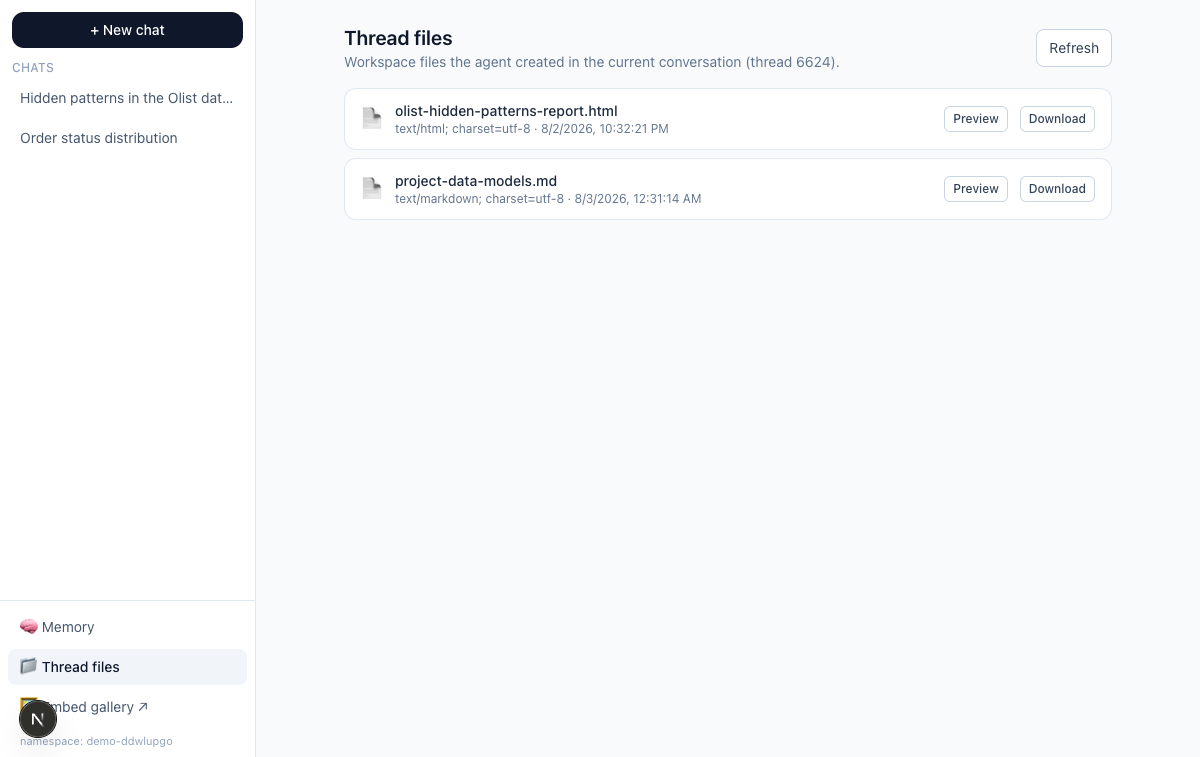
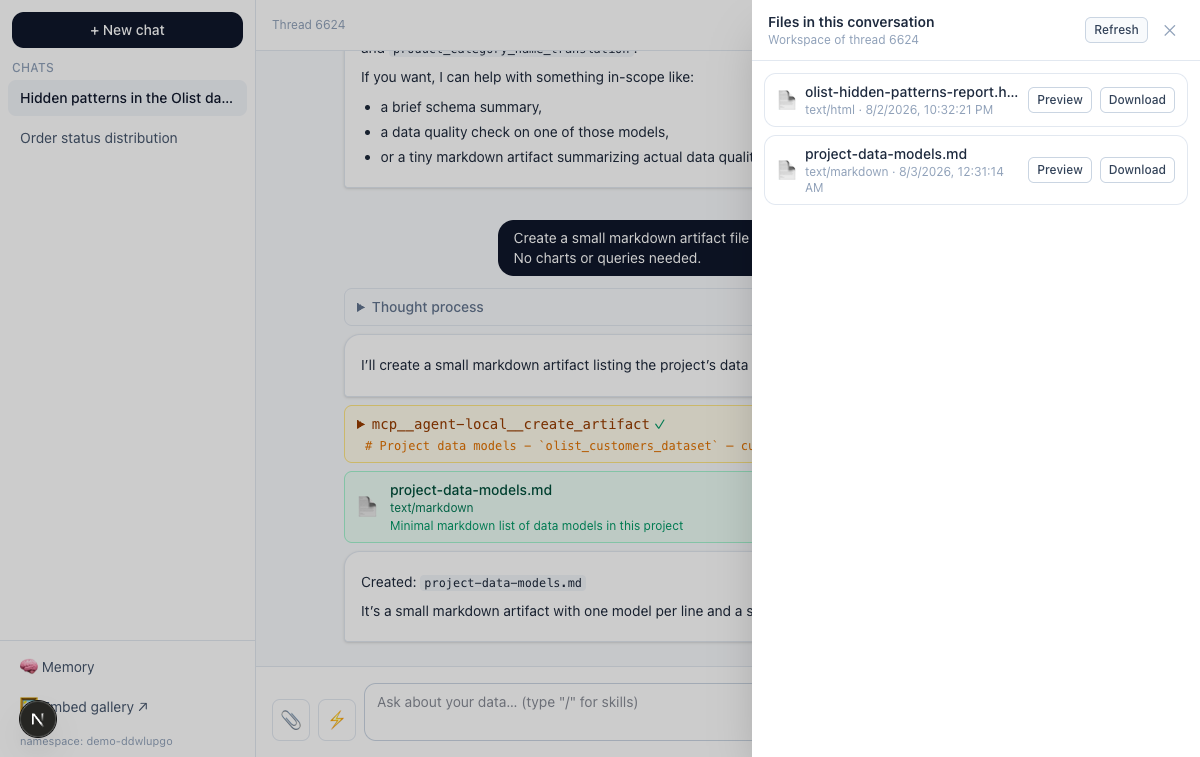
Move workspace files into a per-conversation drawer
Workspace files are thread-scoped, but the sidebar panel presented them
like a global library — the scope was invisible. They now live where
their thread lives: a "Files (n)" button in the chat header opens a
slide-over listing that conversation's workspace, refreshed after every
turn. The sidebar keeps only truly global surfaces (memory, the embed
gallery).

diff --git a/src/components/FilesDrawer.tsx b/src/components/FilesDrawer.tsx
@@ -1,0 +1,107 @@
+"use client";
+
+import { useEffect, useState } from "react";
+import type { WorkspaceFile } from "@/lib/types";
+import { previewKind } from "@/lib/client";
+import type { ExportPreviewTarget } from "./PreviewPanel";
+
+// Slide-over listing ONE conversation's workspace files — everything
+// `create_artifact` produced in this thread. Opened from the chat header, so
+// the thread scope is self-evident. Files are addressed by filename:
+//   GET /v2/projects/{pid}/threads/{tid}/workspace              (this list)
+//   GET /v2/projects/{pid}/threads/{tid}/workspace/{filename}   (the bytes)
+export default function FilesDrawer({
+  threadId,
+  files,
+  onRefresh,
+  onPreview,
+  onClose,
+}: {
+  threadId: number;
+  files: WorkspaceFile[] | null;
+  onRefresh: () => void;
+  onPreview: (target: ExportPreviewTarget) => void;
+  onClose: () => void;
+}) {
+  const [open, setOpen] = useState(false);
+
+  // Mount closed, then slide in on the next frame.
+  useEffect(() => {
+    const t = requestAnimationFrame(() => setOpen(true));
+    return () => cancelAnimationFrame(t);
+  }, []);
+
+  const close = () => {
+    setOpen(false);
+    setTimeout(onClose, 200);
+  };
+
+  return (
+    // z-40: the file PreviewPanel (z-50) stacks on top of this drawer.
+    <div className="fixed inset-0 z-40">
+      <div className={`absolute inset-0 bg-black/20 transition-opacity duration-200 ${open ? "opacity-100" : "opacity-0"}`} onClick={close} />
+      <div
+        className={`absolute inset-y-0 right-0 flex w-full max-w-md flex-col bg-white shadow-2xl transition-transform duration-200 ${
+          open ? "translate-x-0" : "translate-x-full"
+        }`}
+      >
+        <div className="flex items-center justify-between border-b border-slate-200 px-4 py-3">
+          <div>
+            <div className="text-sm font-semibold text-slate-800">Files in this conversation</div>
+            <div className="text-xs text-slate-400">Workspace of thread {threadId}</div>
+          </div>
+          <div className="flex items-center gap-2">
+            <button className="rounded-md border border-slate-300 px-2 py-1 text-xs font-medium text-slate-700 hover:bg-slate-50" onClick={onRefresh}>
+              Refresh
+            </button>
+            <button className="rounded-md px-2 py-1 text-slate-400 hover:text-slate-700" onClick={close}>
+              ✕
+            </button>
+          </div>
+        </div>
+
+        <div className="min-h-0 flex-1 overflow-y-auto p-3">
+          {files === null && (
+            <div className="p-4 text-sm text-slate-400">
+              Couldn&apos;t list this thread&apos;s workspace — the deployment may not support listing yet. Files still appear as cards in the chat.
+            </div>
+          )}
+          {files && files.length === 0 && (
+            <div className="p-4 text-sm text-slate-400">No files yet. Ask the agent to create a report or summary.</div>
+          )}
+          {files && files.length > 0 && (
+            <ul className="space-y-2">
+              {files.map((f) => {
+                const kind = previewKind(f.filename, f.contentType);
+                const url = `/api/threads/${threadId}/workspace/${encodeURIComponent(f.filename)}`;
+                return (
+                  <li key={f.filename} className="flex items-center gap-2 rounded-xl border border-slate-200 px-3 py-2">
+                    <span>📄</span>
+                    <div className="min-w-0 flex-1">
+                      <div className="truncate text-sm font-medium text-slate-800">{f.filename}</div>
+                      <div className="text-xs text-slate-400">
+                        {(f.contentType || "unknown type").split(";")[0]}
+                        {f.lastModified ? ` · ${new Date(f.lastModified).toLocaleString()}` : ""}
+                      </div>
+                    </div>
+                    {kind && (
+                      <button
+                        className="rounded-md border border-slate-300 px-2 py-1 text-xs font-medium text-slate-700 hover:bg-slate-50"
+                        onClick={() => onPreview({ filename: f.filename, contentType: f.contentType || "", kind, localUrl: url })}
+                      >
+                        Preview
+                      </button>
+                    )}
+                    <a className="rounded-md border border-slate-300 px-2 py-1 text-xs font-medium text-slate-700 hover:bg-slate-50" href={`${url}?mode=download`} target="_blank" rel="noreferrer">
+                      Download
+                    </a>
+                  </li>
+                );
+              })}
+            </ul>
+          )}
+        </div>
+      </div>
+    </div>
+  );
+}

diff --git a/src/components/Chat.tsx b/src/components/Chat.tsx
@@ -1,11 +1,12 @@
 "use client";
 
 import { useCallback, useEffect, useRef, useState } from "react";
-import type { Block, ThreadMessage, Turn, TurnEvent, UploadedFile } from "@/lib/types";
+import type { Block, ThreadMessage, Turn, TurnEvent, UploadedFile, WorkspaceFile } from "@/lib/types";
 import { reduceTurn } from "@/lib/turnReducer";
 import { streamSse } from "@/lib/sse";
 import Composer from "./Composer";
 import TurnView, { TodoList } from "./TurnView";
+import FilesDrawer from "./FilesDrawer";
 import type { ExportPreviewTarget } from "./PreviewPanel";
 
 type QuestionBlockT = Extract<Block, { kind: "question" }>;
@@ -33,9 +34,29 @@ export default function Chat({
   const [banner, setBanner] = useState<string | null>(null);
   // Mirrors liveThreadId for rendering (workspace-file links need it).
   const [threadId, setThreadId] = useState<number | null>(initialThreadId);
+  // This conversation's workspace files (null = listing unavailable/not loaded).
+  const [files, setFiles] = useState<WorkspaceFile[] | null>(null);
+  const [filesOpen, setFilesOpen] = useState(false);
   const liveResponseId = useRef<number | null>(null);
   const liveThreadId = useRef<number | null>(initialThreadId);
   const scrollRef = useRef<HTMLDivElement>(null);
+
+  // Refresh the workspace listing — on thread load and after each turn, since
+  // any turn may have written new files via create_artifact.
+  const refreshFiles = useCallback(async (tid: number | null) => {
+    if (tid === null) return;
+    try {
+      const res = await fetch(`/api/threads/${tid}/workspace`);
+      const data = await res.json().catch(() => null);
+      if (res.ok && data && Array.isArray(data.files)) setFiles(data.files);
+    } catch {
+      /* listing unavailable on this deployment — cards in chat still work */
+    }
+  }, []);
+
+  useEffect(() => {
+    refreshFiles(initialThreadId);
+  }, [initialThreadId, refreshFiles]);
 
   // Rebuild past turns by replaying each turn's persisted events through the
   // same reducer used for live streaming.
@@ -162,9 +183,11 @@ export default function Chat({
         }));
       } finally {
         setStreaming(false);
+        // The turn may have written files into the workspace.
+        refreshFiles(liveThreadId.current);
       }
     },
-    [memoryNamespace, onThreadCreated, onThreadActivity, patchLastTurn]
+    [memoryNamespace, onThreadCreated, onThreadActivity, patchLastTurn, refreshFiles]
   );
 
   const cancel = useCallback(async () => {
@@ -209,6 +232,20 @@ export default function Chat({
 
   return (
     <div className="flex h-full flex-col">
+      {threadId !== null && (
+        <div className="flex items-center justify-between border-b border-slate-200 bg-white px-4 py-2">
+          <div className="text-xs text-slate-400">Thread {threadId}</div>
+          <button
+            className="rounded-lg border border-slate-200 px-3 py-1.5 text-sm text-slate-600 hover:bg-slate-50"
+            onClick={() => {
+              refreshFiles(threadId);
+              setFilesOpen(true);
+            }}
+          >
+            📁 Files{files && files.length > 0 ? ` (${files.length})` : ""}
+          </button>
+        </div>
+      )}
       <div ref={scrollRef} className="flex-1 overflow-y-auto bg-slate-50 p-6">
         <div className="mx-auto max-w-3xl space-y-8">
           {liveTodos && (
@@ -238,6 +275,15 @@ export default function Chat({
         </div>
       </div>
       <Composer streaming={streaming} onSend={send} onCancel={cancel} />
+      {filesOpen && threadId !== null && (
+        <FilesDrawer
+          threadId={threadId}
+          files={files}
+          onRefresh={() => refreshFiles(threadId)}
+          onPreview={onPreviewExport}
+          onClose={() => setFilesOpen(false)}
+        />
+      )}
     </div>
   );
 }

diff --git a/src/components/Sidebar.tsx b/src/components/Sidebar.tsx
@@ -2,7 +2,7 @@
 
 import type { ThreadRef } from "@/lib/types";
 
-export type Panel = "chat" | "memory" | "files";
+export type Panel = "chat" | "memory";
 
 export default function Sidebar({
   threads,
@@ -56,14 +56,9 @@ export default function Sidebar({
         >
           🧠 Memory
         </button>
-        <button
-          className={`mb-1 block w-full rounded-lg px-3 py-2 text-left text-sm hover:bg-slate-100 ${panel === "files" ? "bg-slate-100 font-medium" : "text-slate-600"}`}
-          onClick={() => onSelectPanel("files")}
-        >
-          📁 Thread files
-        </button>
-        {/* The project artifact LIBRARY (kept/pinned files) is a separate,
-            embed-oriented surface — demoed on its own page at /embed. */}
+        {/* Per-conversation workspace files live in the chat header ("Files"
+            drawer). The project artifact LIBRARY (kept/pinned files) is a
+            separate, embed-oriented surface — demoed on its own page at /embed. */}
         <a
           className="block w-full rounded-lg px-3 py-2 text-left text-sm text-slate-600 hover:bg-slate-100"
           href="/embed"

diff --git a/src/app/page.tsx b/src/app/page.tsx
@@ -6,7 +6,6 @@ import { getMemoryNamespace, loadThreads, touchThread, upsertThread } from "@/li
 import Sidebar, { type Panel } from "@/components/Sidebar";
 import Chat from "@/components/Chat";
 import MemoryPanel from "@/components/MemoryPanel";
-import WorkspacePanel from "@/components/WorkspacePanel";
 import ArtifactPreviewModal, { type PreviewTarget } from "@/components/ArtifactPreviewModal";
 import PreviewPanel, { type ExportPreviewTarget } from "@/components/PreviewPanel";
 
@@ -77,7 +76,6 @@ export default function Home() {
           />
         )}
         {panel === "memory" && <MemoryPanel namespace={namespace} />}
-        {panel === "files" && <WorkspacePanel threadId={activeThreadId} onPreview={setFilePreview} />}
       </main>
       {preview && <ArtifactPreviewModal target={preview} onClose={() => setPreview(null)} />}
       {filePreview && <PreviewPanel target={filePreview} onClose={() => setFilePreview(null)} />}

diff --git a/src/lib/types.ts b/src/lib/types.ts
@@ -25,6 +25,13 @@ export interface ArtifactMeta {
   updatedAt?: string;
 }
 
+// One entry from GET /v2/projects/{pid}/threads/{tid}/workspace
+export interface WorkspaceFile {
+  filename: string;
+  contentType?: string;
+  lastModified?: string;
+}
+
 export interface ThreadMessage {
   threadResponseId: number;
   question: string;

diff --git a/README.md b/README.md
@@ -39,7 +39,7 @@ the SSE stream through unchanged.
 | Skills list + `/` autocomplete | `Composer.tsx` |
 | Per-user memory (view + wipe) | [`src/components/MemoryPanel.tsx`](src/components/MemoryPanel.tsx) |
 | Plans (TodoWrite) as a live checklist | `turnReducer.ts`, [`src/components/TurnView.tsx`](src/components/TurnView.tsx) |
-| Workspace files: cards, thread file browser, preview & download | `TurnView.tsx`, [`src/components/WorkspacePanel.tsx`](src/components/WorkspacePanel.tsx), [`src/components/PreviewPanel.tsx`](src/components/PreviewPanel.tsx) |
+| Workspace files: in-chat cards + per-conversation Files drawer | `TurnView.tsx`, [`src/components/FilesDrawer.tsx`](src/components/FilesDrawer.tsx), [`src/components/PreviewPanel.tsx`](src/components/PreviewPanel.tsx) |
 | Embedding promoted artifacts on another page | [`src/app/embed/page.tsx`](src/app/embed/page.tsx) — a standalone gallery using the project library + presigned URLs |
 | Inline ECharts from `render_chart` results | [`src/components/EChart.tsx`](src/components/EChart.tsx) |
 | Human-in-the-loop (`user_question` → `user_input`) | `TurnView.tsx` + `Chat.tsx` |
@@ -98,12 +98,14 @@ GET /v2/projects/{pid}/threads/{tid}/workspace              # list a thread's fi
 GET /v2/projects/{pid}/threads/{tid}/workspace/{filename}   # the bytes; ?mode=download for attachment
 ```
 
-**This is the surface the chat app uses everywhere**: in-chat file cards and
-the "Thread files" panel ([`WorkspacePanel.tsx`](src/components/WorkspacePanel.tsx))
-both read the thread workspace. Preview whitelist: markdown, HTML, PDF —
-rendered in a slide-over panel ([`PreviewPanel.tsx`](src/components/PreviewPanel.tsx)).
+**This is the surface the chat app uses everywhere.** Workspace files are
+scoped to one conversation, so the UI keeps them there: file cards inline in
+the chat, plus a "Files" drawer in the chat header
+([`FilesDrawer.tsx`](src/components/FilesDrawer.tsx)) listing that thread's
+workspace. Preview whitelist: markdown, HTML, PDF — rendered in a slide-over
+panel ([`PreviewPanel.tsx`](src/components/PreviewPanel.tsx)).
 
-![Thread files panel listing the workspace](docs/screenshots/thread-files.png)
+![Files drawer listing the conversation's workspace](docs/screenshots/thread-files.png)
 
 ![Slide-over previewing an HTML report from the thread workspace](docs/screenshots/preview.png)
 
@@ -214,7 +216,7 @@ src/
     Composer.tsx     input, attachments, "/" skills autocomplete
     TurnView.tsx     renders blocks: thinking, tools, charts, cards, questions
     PreviewPanel.tsx slide-over file preview (workspace + export files)
-    WorkspacePanel.tsx  the active thread's workspace files
+    FilesDrawer.tsx  per-conversation workspace file drawer (chat header)
     ArtifactPreviewModal.tsx  presigned preview for promoted artifacts
     MemoryPanel.tsx  memory view + wipe
     EChart.tsx       ECharts wrapper for render_chart specs
